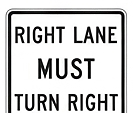
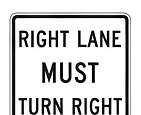
auto-commit for 56a72b3f-b696-4f1e-88c3-63fca61135cc

diff --git a/scripts/crop_elp_signs_v3.py b/scripts/crop_elp_signs_v3.py
@@ -37,7 +37,7 @@ y_runs = runs(row_density > (W * 0.02), min_gap=15, min_len=40)
 # detected runs are sign rows. Keep them all.
 print(f"{len(y_runs)} sign rows detected (expected 6)")
 
-MARGIN = 8
+MARGIN = 12  # generous breathing room so no sign border ever clips
 sid = 1
 for ri, (y0, y1) in enumerate(y_runs):
     band = ink[y0:y1]
@@ -52,22 +52,47 @@ for ri, (y0, y1) in enumerate(y_runs):
         keep_rows = np.where(row_w >= thresh)[0]
         if len(keep_rows) == 0:
             cy0, cy1 = 0, y1 - y0
+            bottom_safe = MARGIN
         else:
             cy0 = keep_rows[0]; cy1 = keep_rows[-1] + 1
-            # If there is a vertical gap > 4 px inside the cell, the bottom
-            # segment after the gap is a caption number — drop it.
+            # Detect the gap between sign body and the caption numeral.
             gaps = np.where(np.diff(keep_rows) > 4)[0]
-            if len(gaps): cy1 = keep_rows[gaps[-1]] + 1
+            if len(gaps):
+                gap_idx = gaps[-1]
+                body_end = keep_rows[gap_idx] + 1
+                caption_start = keep_rows[gap_idx + 1]
+                cy1 = body_end
+                # Bottom margin is whichever is smaller: standard MARGIN or
+                # half the gap to the caption (so the caption never enters).
+                bottom_safe = max(0, min(MARGIN, (caption_start - body_end) // 2))
+            else:
+                bottom_safe = MARGIN
         col_h = cell.sum(axis=0)
         keep_cols = np.where(col_h >= 2)[0]
         cx0 = keep_cols[0] if len(keep_cols) else 0
         cx1 = keep_cols[-1] + 1 if len(keep_cols) else (x1 - x0)
+
+        # The caption numeral often sits BELOW the detected row band — outside
+        # `cell`. Peek at the source pixels in the column range immediately
+        # below the band and clip the bottom margin so the caption is never
+        # included.
+        abs_body_end = y0 + cy1
+        look_ahead = ink[abs_body_end : min(H, abs_body_end + MARGIN + 4),
+                         x0 + cx0 : x0 + cx1]
+        if look_ahead.size > 0:
+            # Caption numerals are narrow (1-2 digits, ~5-15 ink pixels per
+            # row). Use a low absolute threshold so they trigger detection
+            # even when the column range is much wider than the caption.
+            caption_rows_below = look_ahead.sum(axis=1) >= 4
+            if caption_rows_below.any():
+                first_caption_offset = int(np.where(caption_rows_below)[0][0])
+                # Keep 1 px clear above the caption.
+                bottom_safe = max(0, min(bottom_safe, first_caption_offset - 1))
+
         L = max(0, x0 + cx0 - MARGIN)
         T = max(0, y0 + cy0 - MARGIN)
         R = min(W, x0 + cx1 + MARGIN)
-        # Bottom margin is intentionally smaller: caption numerals (1, 2, …,
-        # 24) sit just below each sign and must not bleed into the crop.
-        B = min(H, y0 + cy1 + 2)
+        B = min(H, y0 + cy1 + bottom_safe)
         crop = src.crop((L, T, R, B))
         # Mild unsharp ONLY (no upscale) — keeps original PNG sharpness.
         crop = crop.filter(ImageFilter.UnsharpMask(radius=0.8, percent=80, threshold=2))
